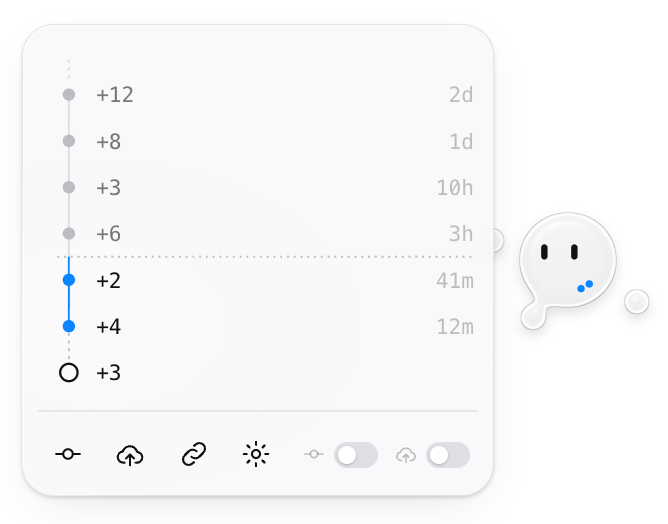
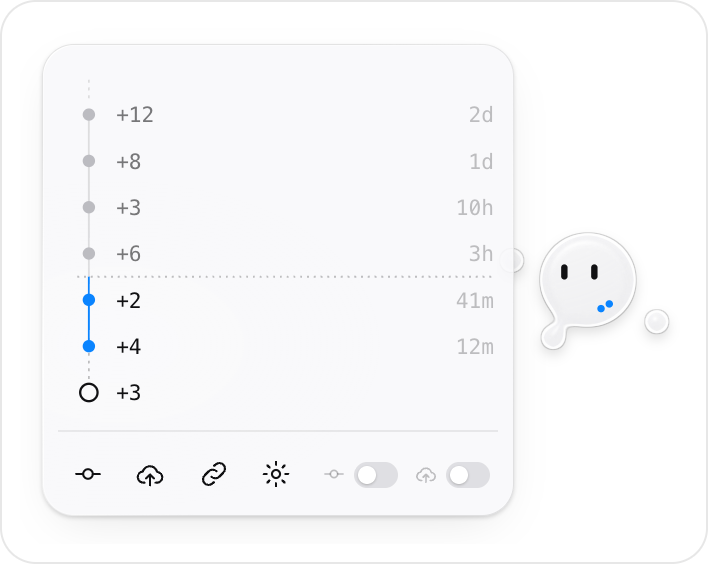
README: show the panel in a card like the widget styles

diff --git a/README.md b/README.md
@@ -38,7 +38,7 @@ A small widget sits at the right edge of the chat page.
 <p align="center">
   <img src="docs/images/styles-en.png" width="470" alt="The three widget styles: Creature, Line and Dot">
   &nbsp;
-  <img src="docs/images/panel.png" width="300" alt="The panel: commit graph with an origin line, Commit, Push, copy link, settings, and the auto commit and auto push switches">
+  <img src="docs/images/panel.png" width="290" alt="The panel: commit graph with an origin line, Commit, Push, copy link, settings, and the auto commit and auto push switches">
 </p>
 
 Three styles, all monochrome glass with one blue accent: **Creature** (the default; it watches the AI think and reacts to what you do), **Line** and **Dot**.
